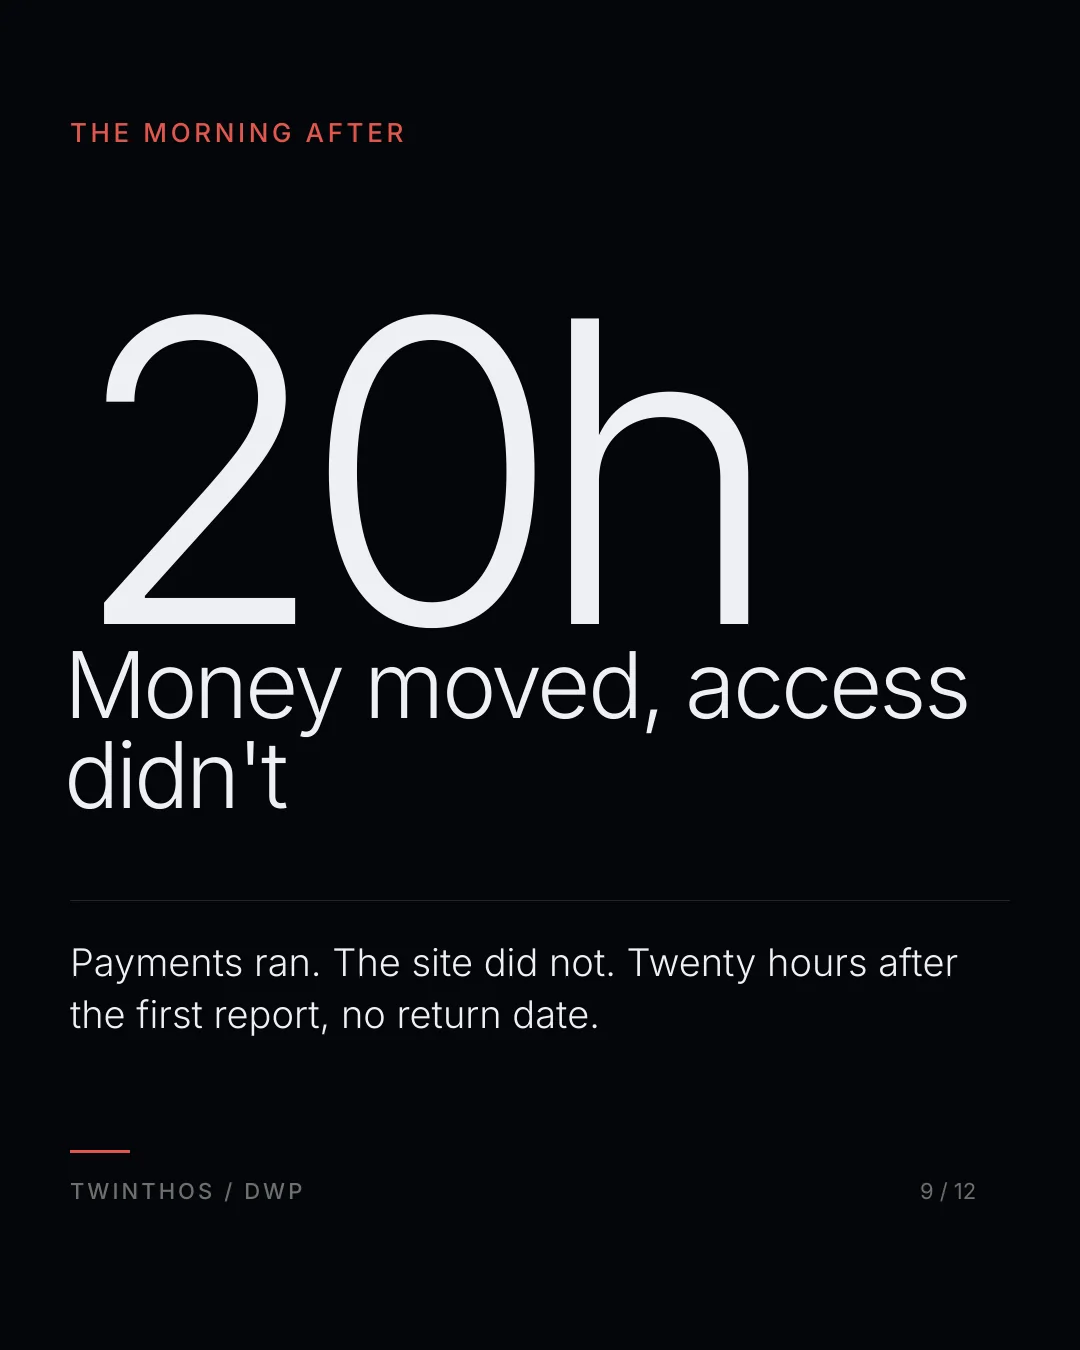
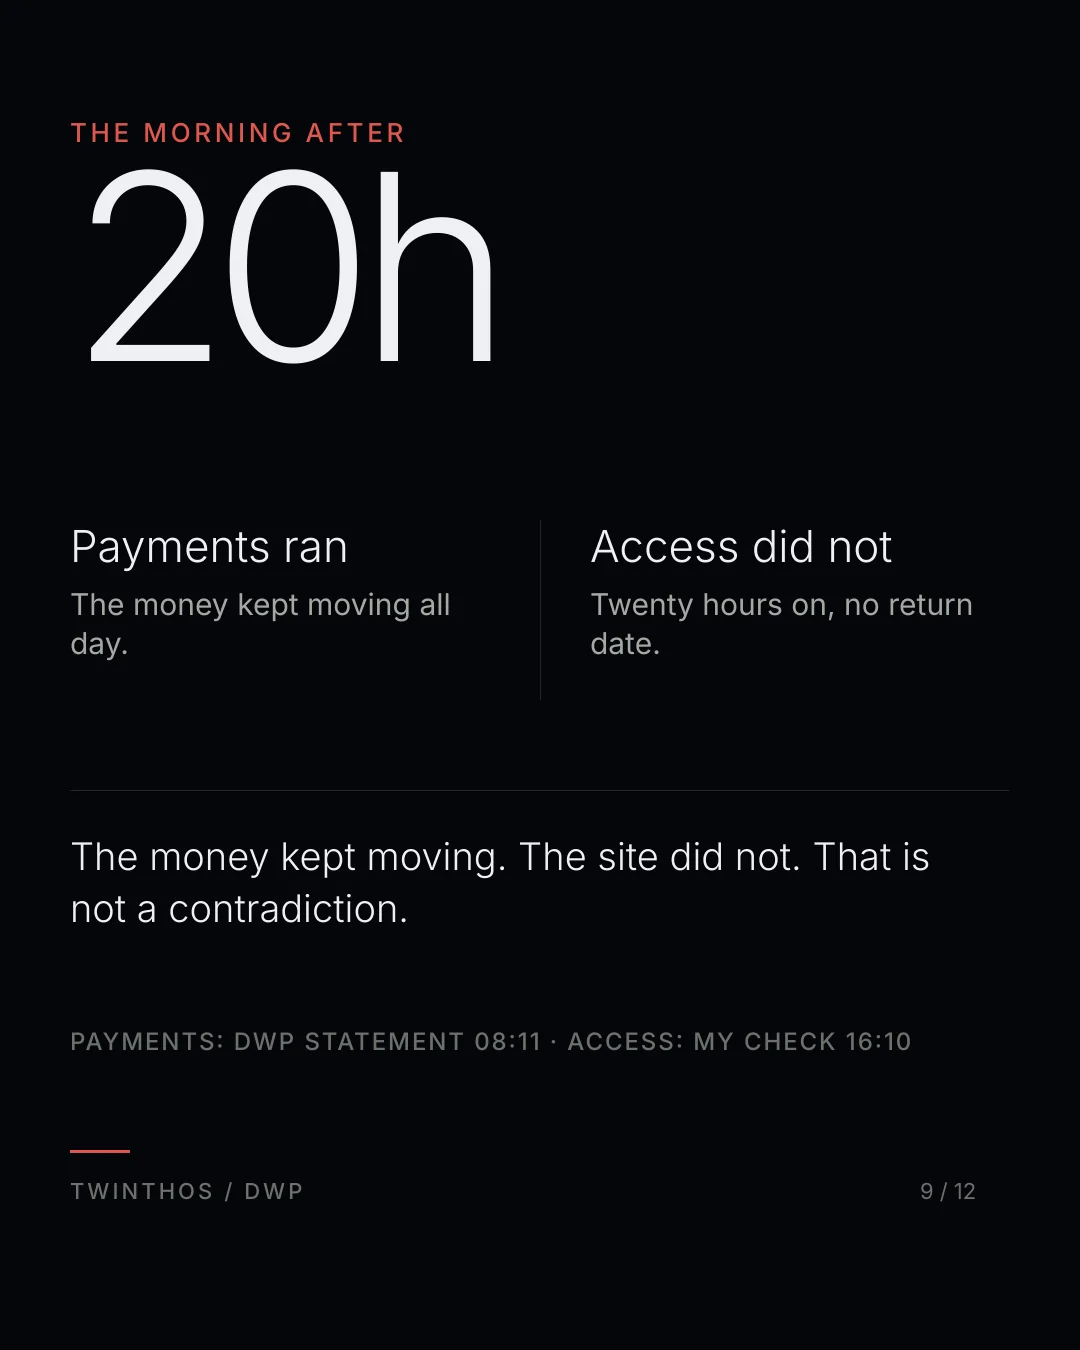
notes: slide 9 split layout, money vs access

diff --git a/notes/dwp-incident-review/index.html b/notes/dwp-incident-review/index.html
@@ -90,8 +90,8 @@
   <figcaption><span>08 / 12</span> Not proof that data left, or who did it. The cause is still unpublished.</figcaption>
 </figure>
 <figure class="review-shot">
-  <img src="/assets/notes-photo-2026/dwp-review/09.webp" width="1080" height="1350" loading="lazy" decoding="async" alt="Slide 9 of 12: Payments ran. The site did not. Twenty hours on, no return date.">
-  <figcaption><span>09 / 12</span> Payments ran. The site did not. Twenty hours on, no return date.</figcaption>
+  <img src="/assets/notes-photo-2026/dwp-review/09.webp" width="1080" height="1350" loading="lazy" decoding="async" alt="Slide 9 of 12: The money kept moving. The site did not. That is not a contradiction.">
+  <figcaption><span>09 / 12</span> The money kept moving. The site did not. That is not a contradiction.</figcaption>
 </figure>
 <figure class="review-shot">
   <img src="/assets/notes-photo-2026/dwp-review/10.webp" width="1080" height="1350" loading="lazy" decoding="async" alt="Slide 10 of 12: Capita £14m. WannaCry £92m. Co-op £206m. M&S about £300m.">
